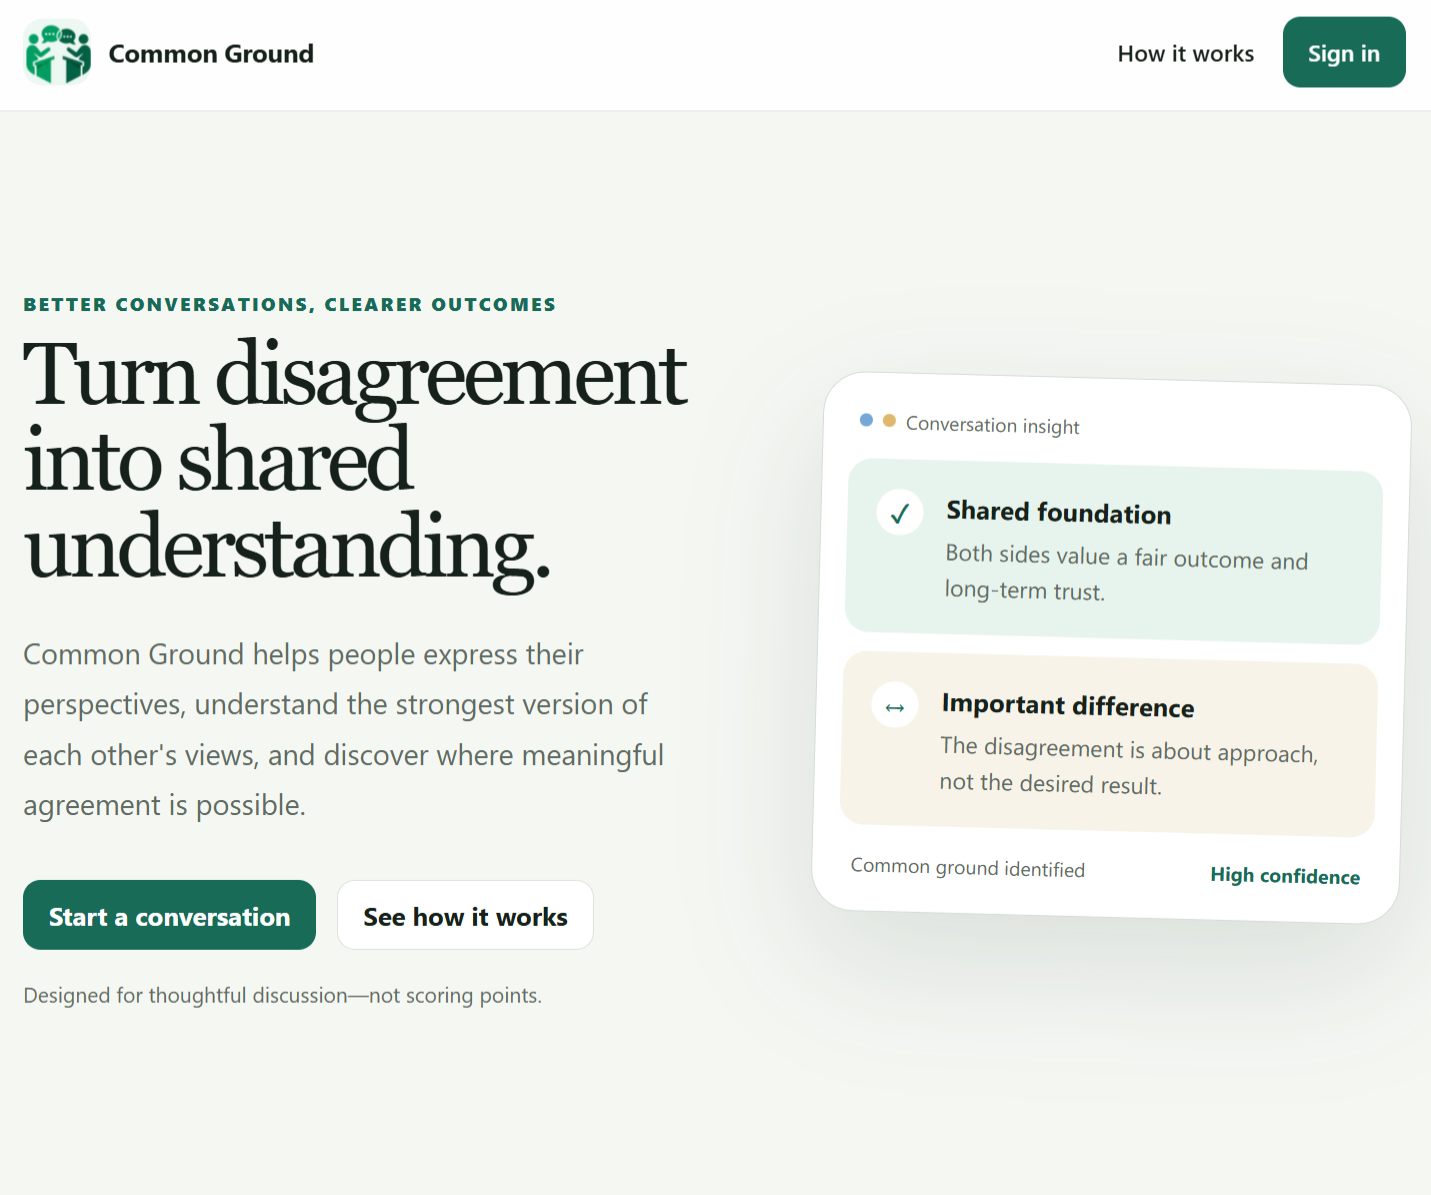
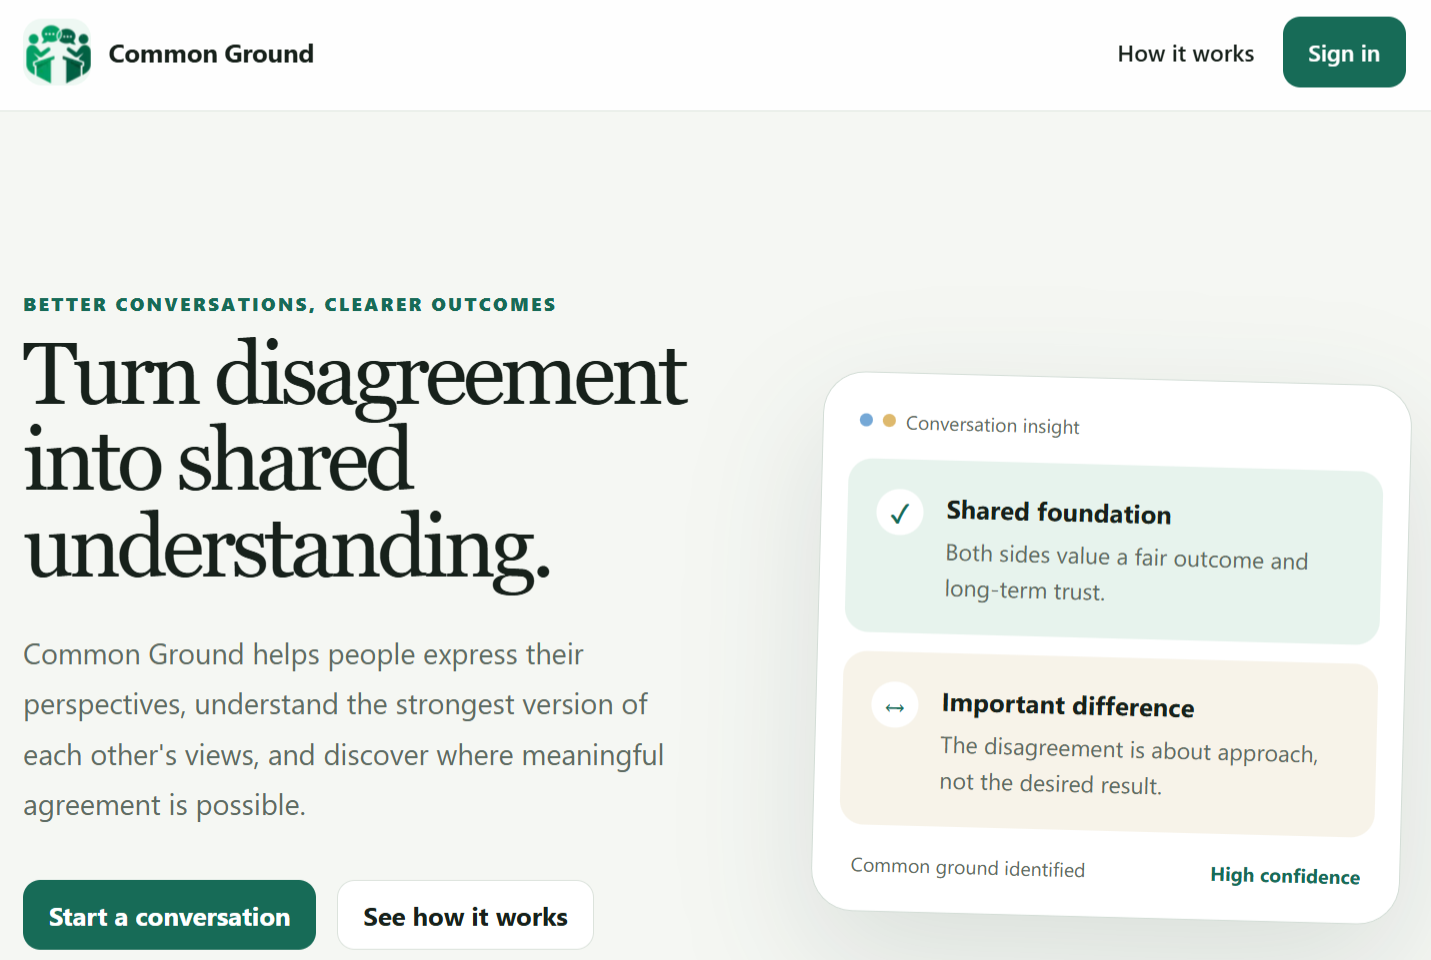
docs: refine demo badges and screenshot

diff --git a/README.md b/README.md
@@ -9,8 +9,8 @@
 </p>
 
 <p align="center">
-  <a href="https://common-ground.100-60-92-23.sslip.io"><img src="https://img.shields.io/badge/Live%20Demo-137D6B?style=flat-square" alt="Live Demo" /></a>
-  <a href="https://youtu.be/TbjtFvMk2Hk"><img src="https://img.shields.io/badge/Walkthrough-FF0000?style=flat-square&logo=youtube&logoColor=white" alt="Walkthrough" /></a>
+  <a href="https://common-ground.100-60-92-23.sslip.io"><img src="https://img.shields.io/badge/Live%20Demo-137D6B?style=for-the-badge" alt="Live Demo" /></a>
+  <a href="https://youtu.be/TbjtFvMk2Hk"><img src="https://img.shields.io/badge/Walkthrough-FF0000?style=for-the-badge&logo=youtube&logoColor=white" alt="Walkthrough" /></a>
 </p>
 
 <p align="center">